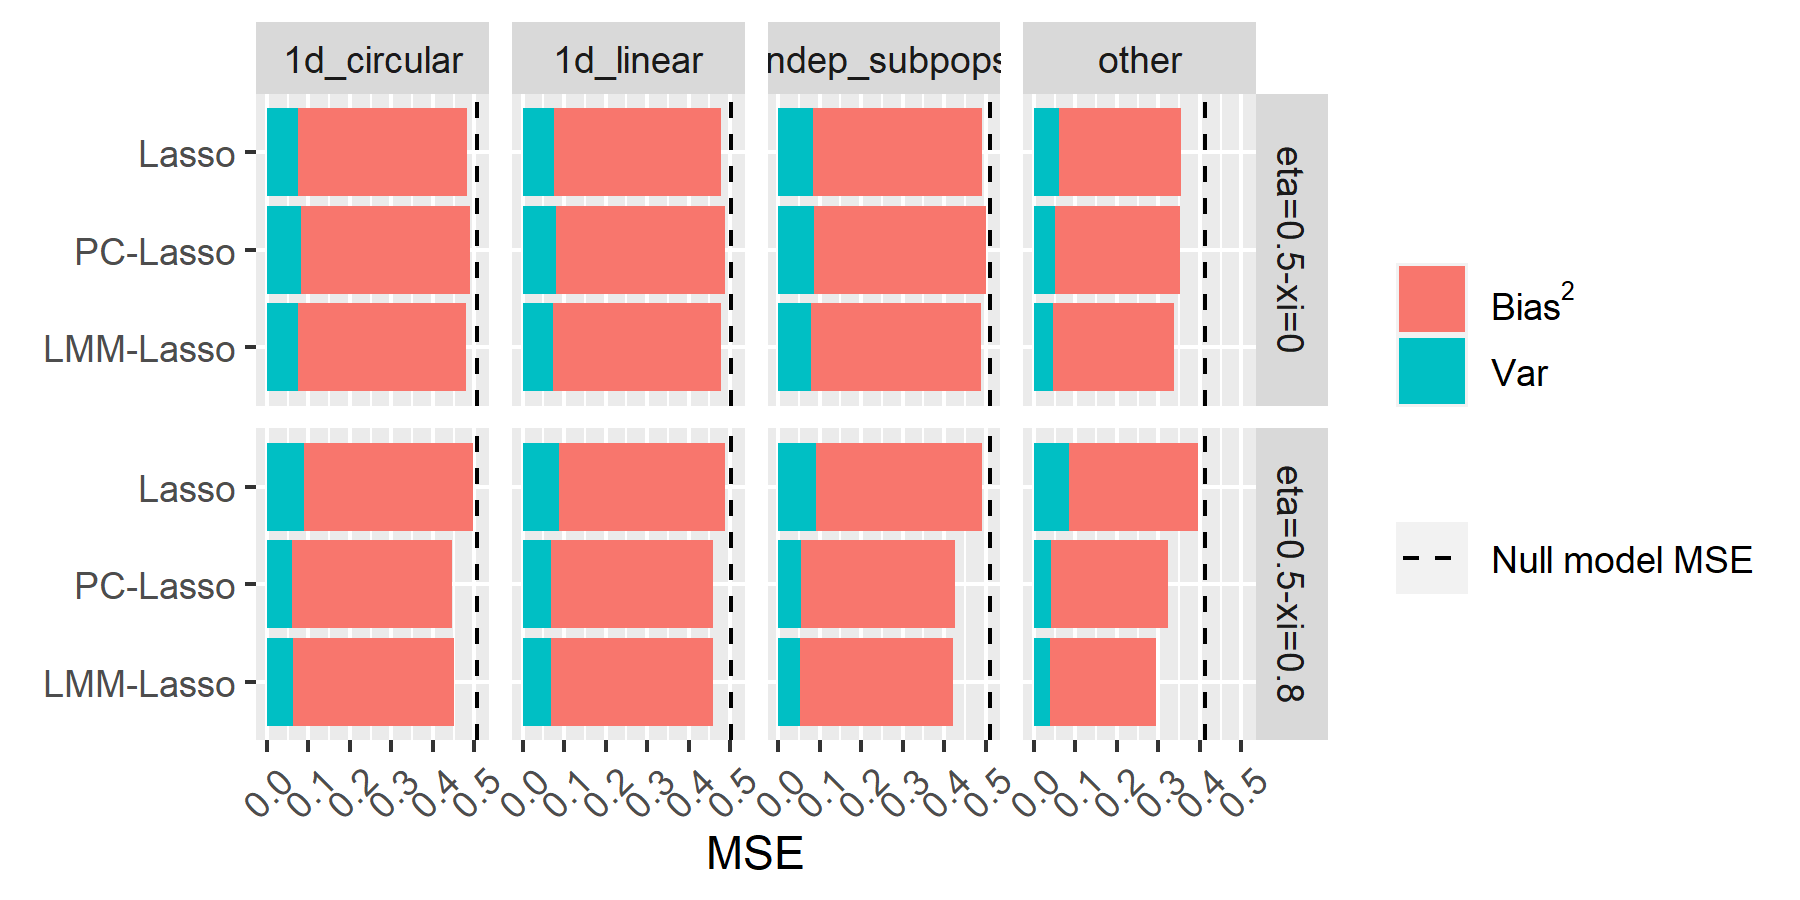
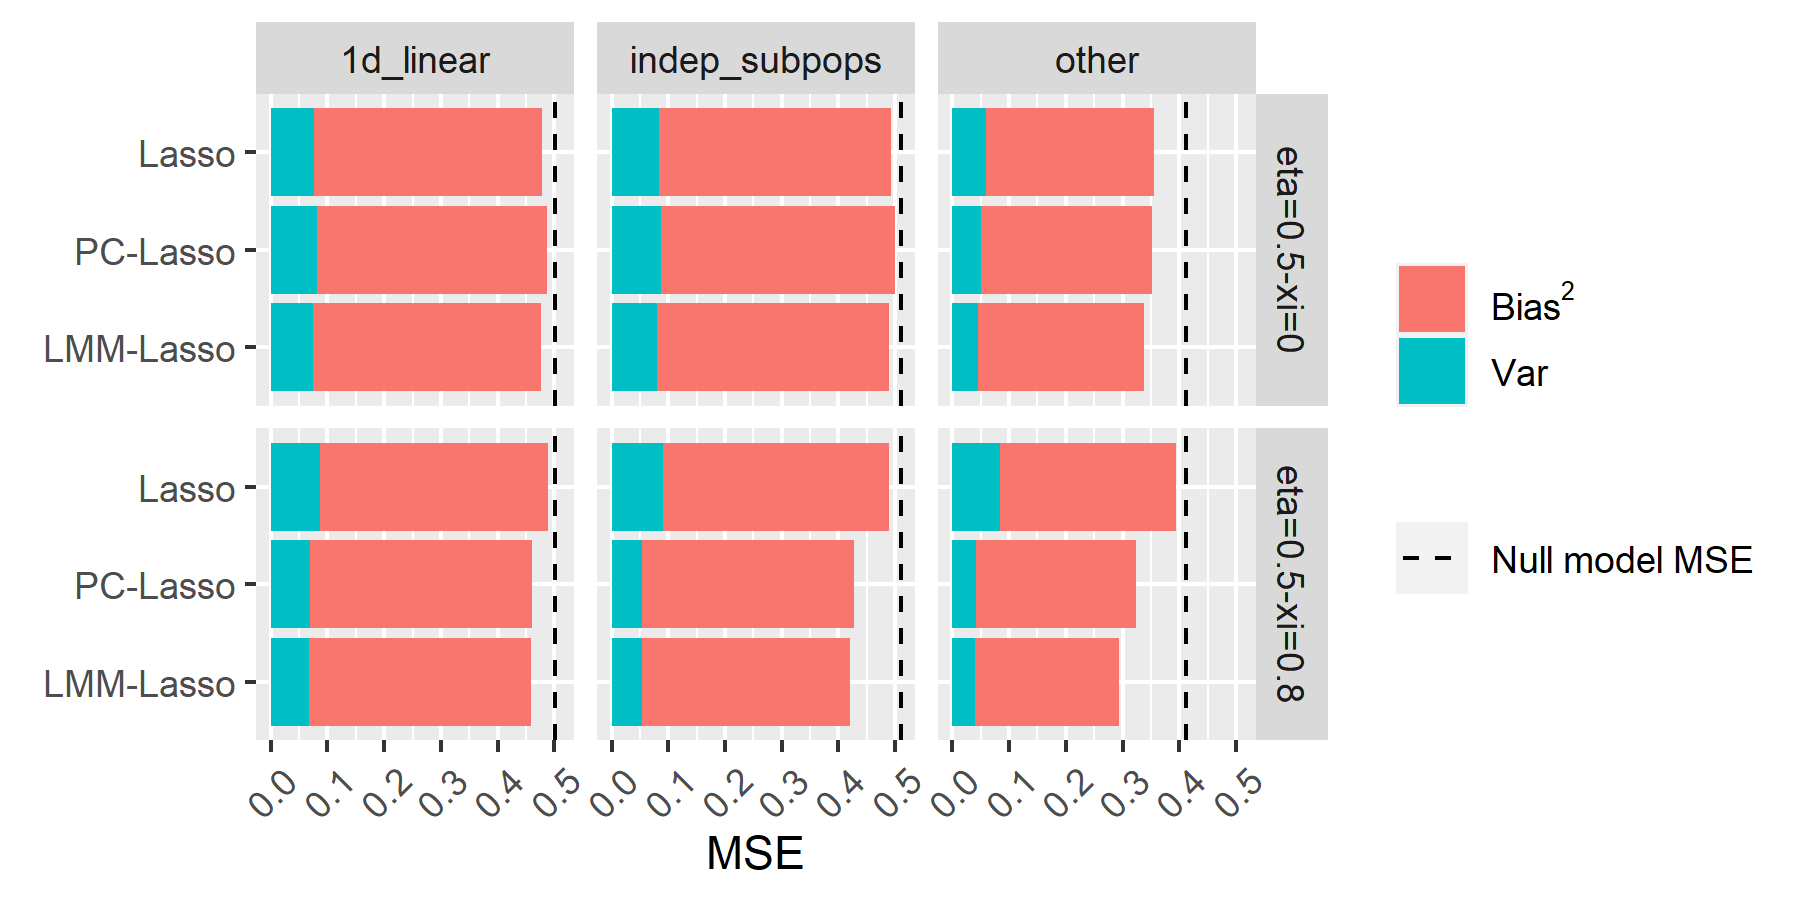
Figures: updating with figures for independent subpopulations, xi = 0.8. Labels still need work.

diff --git a/main.tex b/main.tex
@@ -269,45 +269,12 @@ We begin by comparing the ordinary lasso, PC-Lasso, and LMM-Lasso as the level o
 
 \pb{I find ``small'' subpopulations unclear; how do you feel about ``fine'' and ``coarse'' structure?}
 
-Given the superior performance of PC-Lasso and LMM-Lasso compared to the naive lasso in the presence of environmental confounding, we next compared these methods in the presence of two forms of simulated population structure: (1) relatedness characterized by a small number of large subpopulations to model large-scale environmental heterogeneity or population stratification, similar to that described in our motivating air quality example, and (2) a large number of small, closely related subpopulations to approximate finer grained environmental heterogeneity, such as household exposures or behavioral norms. Figure \ref{fig:kinship} illustrates the simulated kinship structures in these scenarios, as well as that present in the empirical SNP data. We note that we show results for simulated data generated such that subpopulations are of equal size, while the empirical SNP data illustrates a scenario of unequal subpopulation sizes.
+Given the superior performance of PC-Lasso and LMM-Lasso compared to the naive lasso in the presence of environmental confounding, we next compared these methods in the presence of two forms of simulated population structure: (1) relatedness characterized by a small number of large subpopulations to model large-scale environmental heterogeneity or population stratification, similar to that described in our motivating air quality example, and (2) a large number of small, closely related subpopulations to approximate finer grained environmental heterogeneity, such as household exposures or behavioral norms. 
+
+\anna{the following sentence needs to change now that kinship figs are gone}
+Figure \anna{KINSHIP FIGS IN SUPP NOT HERE} illustrates the simulated kinship structures in these scenarios, as well as that present in the empirical SNP data. We note that we show results for simulated data generated such that subpopulations are of equal size, while the empirical SNP data illustrates a scenario of unequal subpopulation sizes.
 
 \pb{should describe our empirical structure here -- is it fine or coarse?}
-
-\anna{
-\begin{itemize}
-    \item "Spend" this many figures on kinship?
-\end{itemize}
-}
-
-\pb{these are nice figures, but to me, better for supplement}
-
-\begin{figure}[H]
-\begin{subfigure}{.8\textwidth}
-  \centering
-  % include first image
-  \includegraphics[width=.7\linewidth]{figures/kinship1}  
-  \caption{Independent subpopulations simulated kinship; a small number of large groups}
-  \label{fig:large_groups}
-\end{subfigure}
-\newline
-\begin{subfigure}{.8\textwidth}
-  \centering
-  % include second image
-  \includegraphics[width=.7\linewidth]{figures/kinship2}  
-  \caption{Independent subpopulations simulated kinship; a large number of small groups}
-  \label{fig:small_groups}
-\end{subfigure}
-\newline
-\begin{subfigure}{.8\textwidth}
-  \centering
-  % include second image
-  \includegraphics[width=.7\linewidth]{figures/vanderwas_kinship.pdf}  
-  \caption{\anna{Vanderbilt data genome-wide} kinship}
-  \label{fig:vandy_groups}
-\end{subfigure}
-\caption{\anna{obviously these figures need to be tweaked:sizes, uniform scales}}
-\label{fig:kinship}
-\end{figure}
 
 Phenotypes for these simulations were again simulated using a 1:1 SNR, $\eta = 0.5$, and in the presence of moderate environmental confounding, $\xi = 0.5$. Figure \ref{fig:big_vs_small} summarizes the results of these simulations with the y-axis displaying the difference in MSE (PC-Lasso - LMM-Lasso) for each simulation and for the various subpopulation structures. The dashed horizontal line at 0 indicates no difference in the performance of PC-Lasso and LMM-Lasso, while differences greater than 0 correspond to smaller MSE for LMM-Lasso, and thus superior estimation accuracy. In the presence of a small number of large subpopulations, there is some overlap in the estimation accuracy of PC-Lasso and LMM-Lasso, as evidenced by the corresponding box straddling the 0 line. However, the majority of the box falls below 0, indicating the superior performance of PC-Lasso in many of the simulations. In the presence of many small subpopulations, however, LMM-Lasso is clearly superior to PC-Lasso in estimation accuracy. This is consistent with \citep{hoffman2013correcting}, who showed that principal component adjustment methods represent a low dimensional approximation to linear mixed models. As such, it is reasonable that PC-Lasso, which corrects for population structure using a low dimensional set of surrogate variables, would perform well in the small-number-of-large-subpopulations setting, but fall short in the presence of many small subpopulations. 
 
@@ -317,7 +284,7 @@ Phenotypes for these simulations were again simulated using a 1:1 SNR, $\eta = 0
     \centering
     % \includegraphics[scale = 0.9]{figures/mse_diff_subpops}
      \includegraphics[scale = 0.9]{figures/mse_diff_subpops.png}
-    \caption{Relative performance of LMM-Lasso, PC-Lasso in terms of estimation accuracy:  \anna{$\bgamma$ structure is nonlinear (aka half and half) and heterogeneous, $\eta= \xi = 0.5$}}
+    \caption{Relative performance of LMM-Lasso, PC-Lasso in terms of estimation accuracy:  \anna{structureX is independent subpops, $\bgamma$ structure is dichotomous and heterogeneous, $\eta= 0.5, \xi$ is varying}}
     \label{fig:big_vs_small}
 \end{figure}
 
@@ -340,12 +307,11 @@ In addition to considering the effect of population structure, or forms of $\bZ$
 
 We thus evaluate PC-Lasso and LMM-Lasso in the presence of large and small subpopulations as well as distinct coefficient structures. Figure \ref{fig:big_small_gamma} shows the difference in MSE (PC-Lasso - LMM-Lasso) for all simulations, broken down by both subpopulation and coefficient structure. The right-hand panels of \ref{fig:big_small_gamma} are consistent with figure \ref{fig:big_vs_small}, showing superior LMM-Lasso performance in the presence of small subpopulations, regardless of coefficient linearity or homogeneity. The panel of figure \ref{fig:big_small_gamma} corresponding to large subpopulations with heterogeneous coefficients also appears to be a setting where LMM-Lasso consistently outperforms PC-Lasso, regardless of coefficient linearity. Only in the setting of large supopulations with homogeneous coefficients does PC-Lasso outperform LMM-Lasso. In line with our initial intuition, PC-Lasso performs best within this setting when coefficients are linear in nature. 
 
-\anna{replace this with inedpendent subpopulations}
 \begin{figure}[H]
     \centering
     % \includegraphics[scale = 0.9]{figures/fig2b.png}
     \includegraphics[scale = 0.9]{figures/mse_diff_hetero.png}
-    \caption{Relative performance of LMM-Lasso, PC-Lasso for different subpopulation and $\bgamma$ structures: \anna{structureX is 1d linear admixture, $\eta= \xi = 0.5$}}
+    \caption{Relative performance of LMM-Lasso, PC-Lasso for different subpopulation and $\bgamma$ structures: \anna{structureX is independent subpops, $\eta= 0.5, \xi = 0.8$}}
     \label{fig:big_small_gamma}
 \end{figure}
 
@@ -363,7 +329,7 @@ LMM-Lasso-Rakitsch estimates the variance components once, under the assumption 
 \begin{figure}[H]
     \centering
     \includegraphics[scale = 1]{figures/eta_beta_hat.png}
-     \caption{Caption goes here \anna{$\xi = 0.5$, structureX = 1d linear, structureGamma is half and half heterogeneous}}
+     \caption{Caption goes here \anna{$\xi = 0.5$, structureX = independent subpops, structureGamma is dichotomous heterogeneous, large blocks}}
     \label{fig:eta_beta_mse}
 \end{figure}
 
@@ -371,7 +337,7 @@ LMM-Lasso-Rakitsch estimates the variance components once, under the assumption 
 \begin{figure}[H]
     \centering
     \includegraphics[scale = 0.8]{figures/time_ratio.png}
-    \caption{Caption goes here \anna{$\eta = \xi = 0.5$, structureX = 1d linear, structureGamma is half and half heterogeneous}}
+    \caption{Caption goes here \anna{$\eta = 0.5, \xi = 0.8$, structureX = independent subpops, structureGamma is dichotomous heterogeneous, large blocks}}
     \label{fig:time}
 \end{figure}
 
